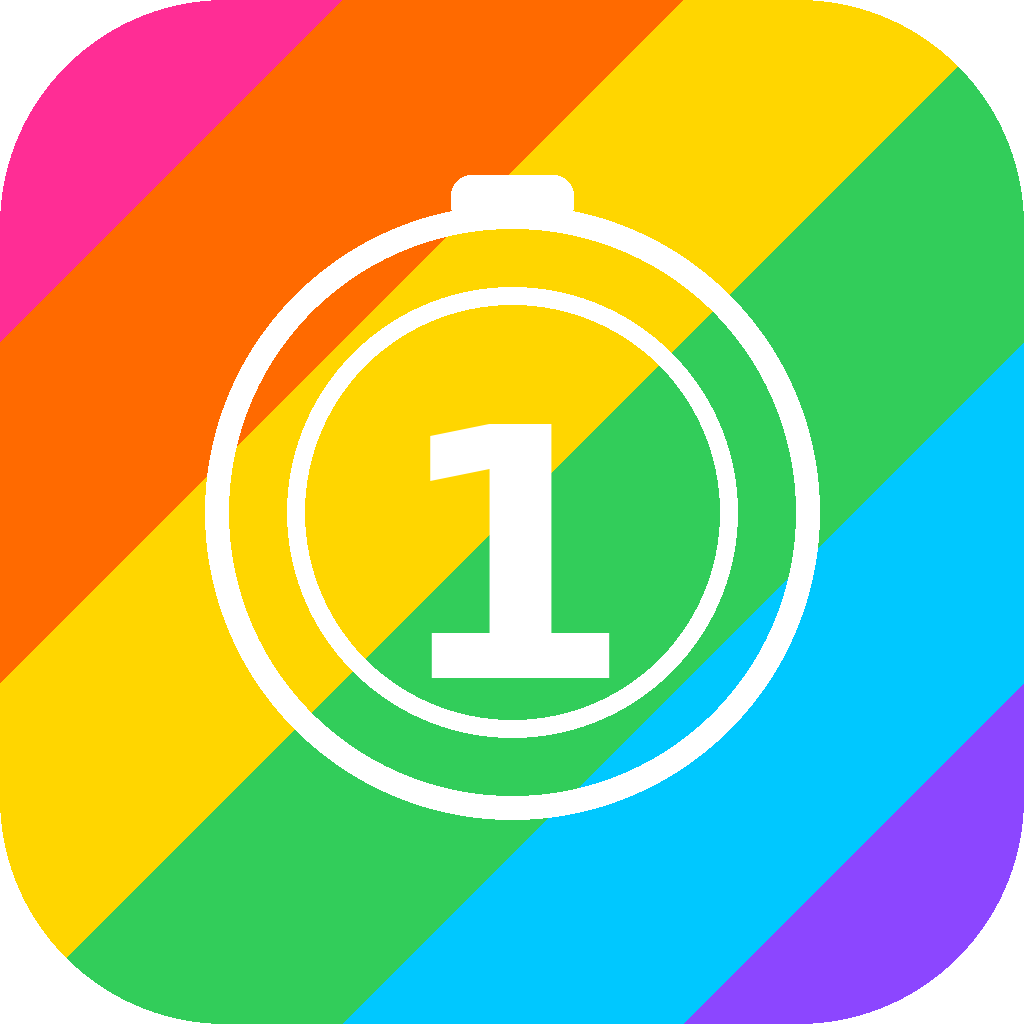
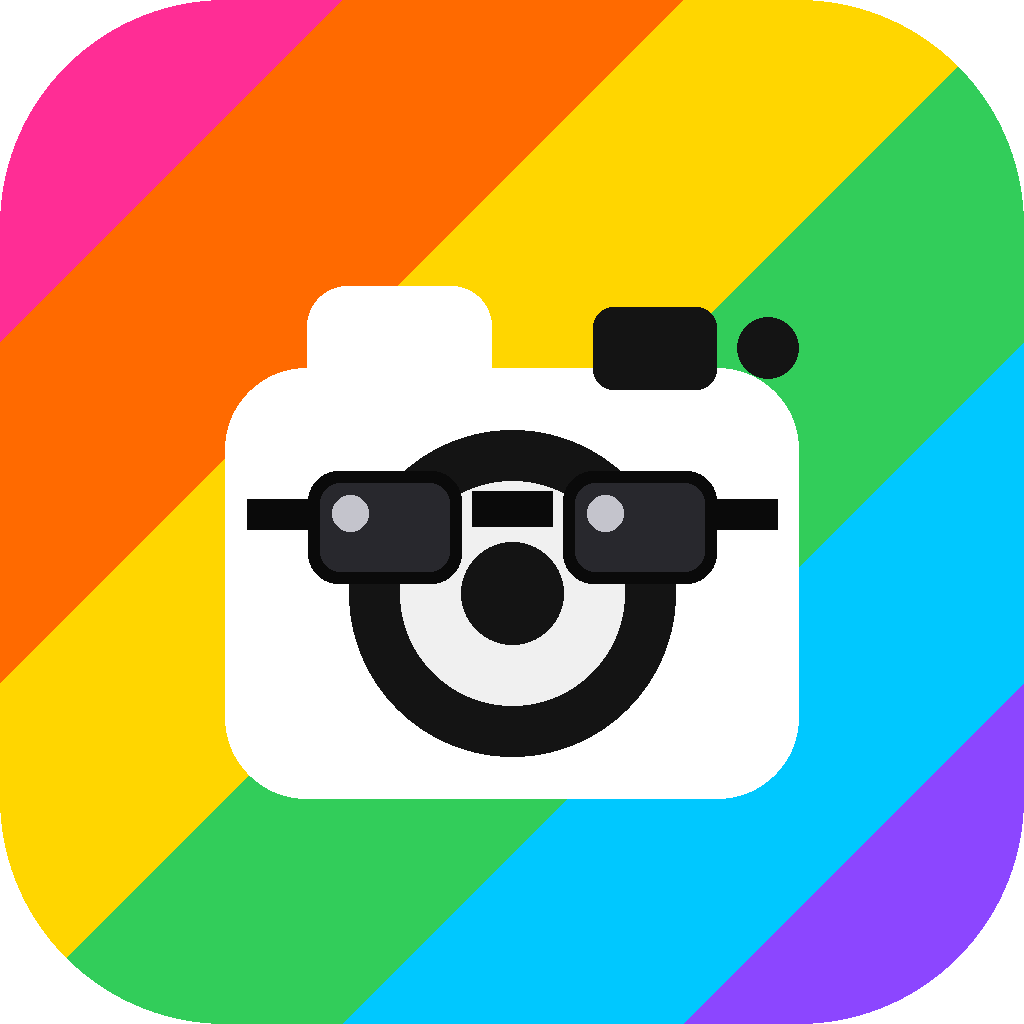
Replace brand glyph with camera-in-sunglasses mark.
Keep six-color diagonal bands; swap shutter/1 for a cute flat-vector
camera wearing bold sunglasses (login, signup, PWA icons).

Changed region(s): [[0.1875, 0.1562, 0.8125, 0.8125]]

diff --git a/components/BrandMark.tsx b/components/BrandMark.tsx
@@ -5,7 +5,7 @@ type Props = { size?: number };
 
 /**
  * Original One Day One Shot mark: rounded square, six diagonal color bands,
- * white shutter ring + “1”. Not an Instagram logo/glyph/gradient copy.
+ * cute flat-vector camera with sunglasses. Not an Instagram logo/glyph copy.
  */
 export function BrandMark({ size = 72 }: Props) {
   return (
